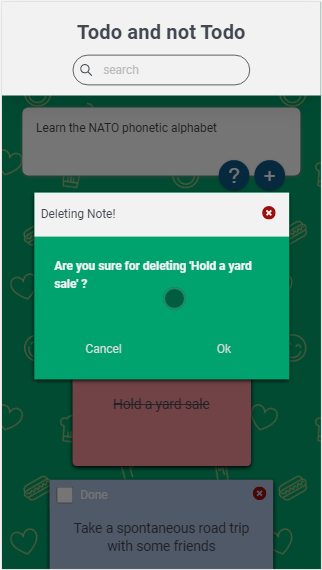
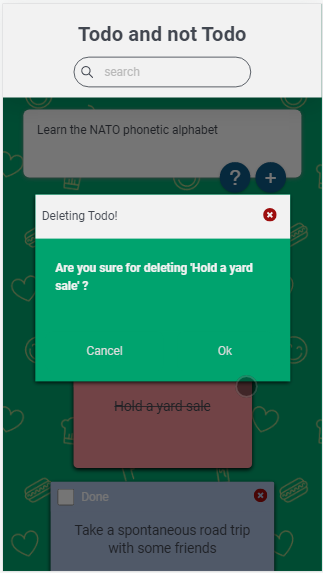
readme

diff --git a/src/components/Note.tsx b/src/components/Note.tsx
@@ -43,7 +43,7 @@ export const Note: React.FunctionComponent<INoteProps> = ({
         hasCloseButton: false,
         hasOkButton: true,
         message: `Are you sure for deleting '${todo.name}' ?`,
-        title: "Deleting Note!",
+        title: "Deleting Todo!",
         visible: true,
         result: EMessageboxResult.CANCEL,
       })
